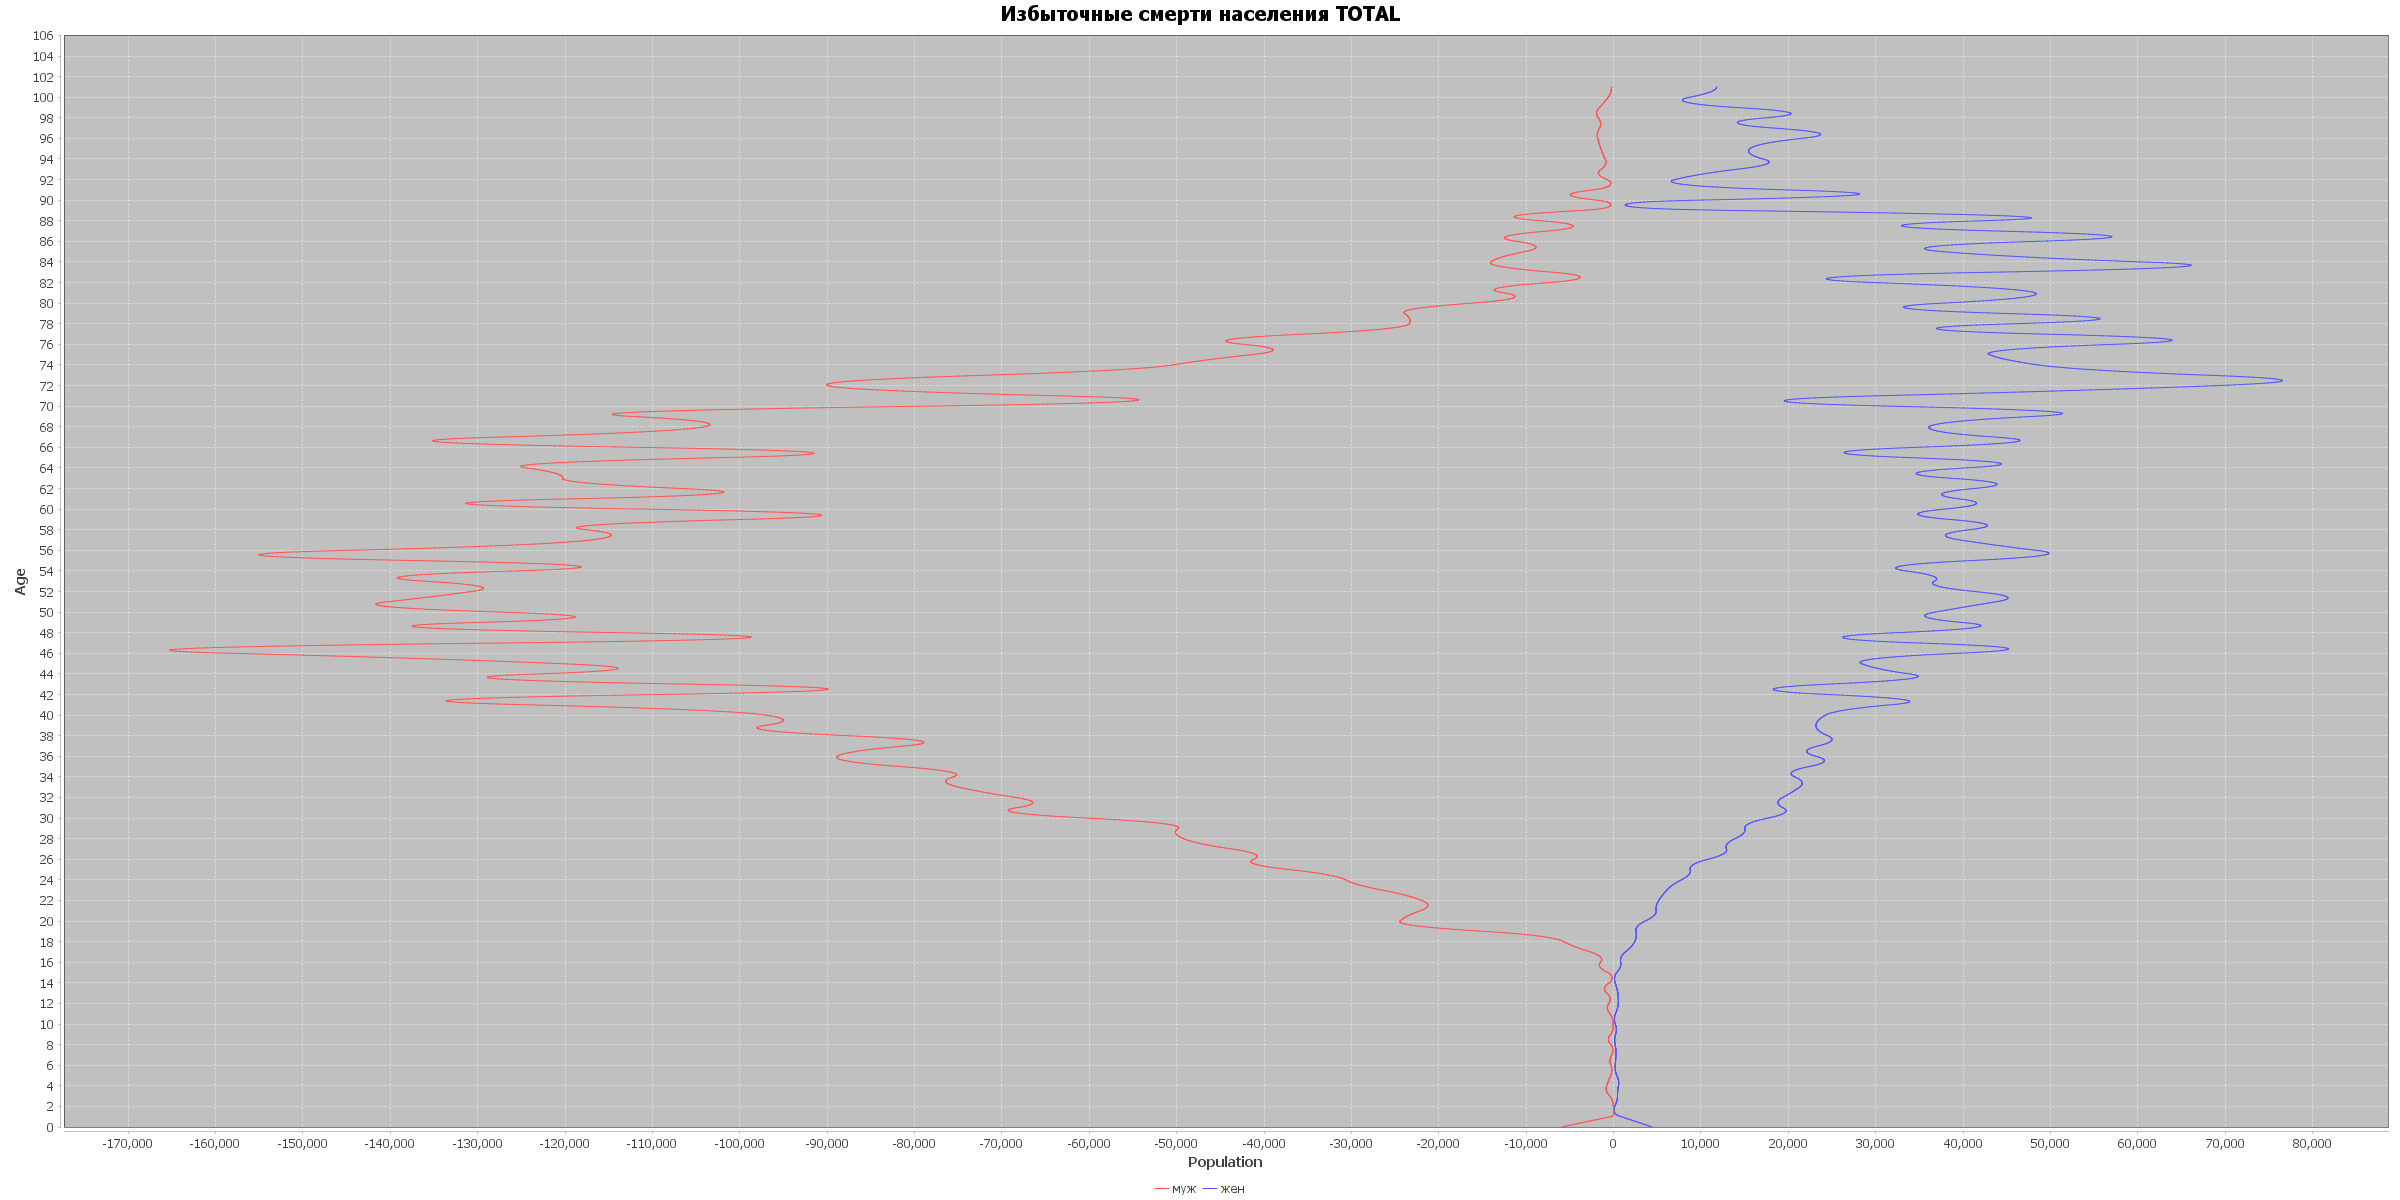
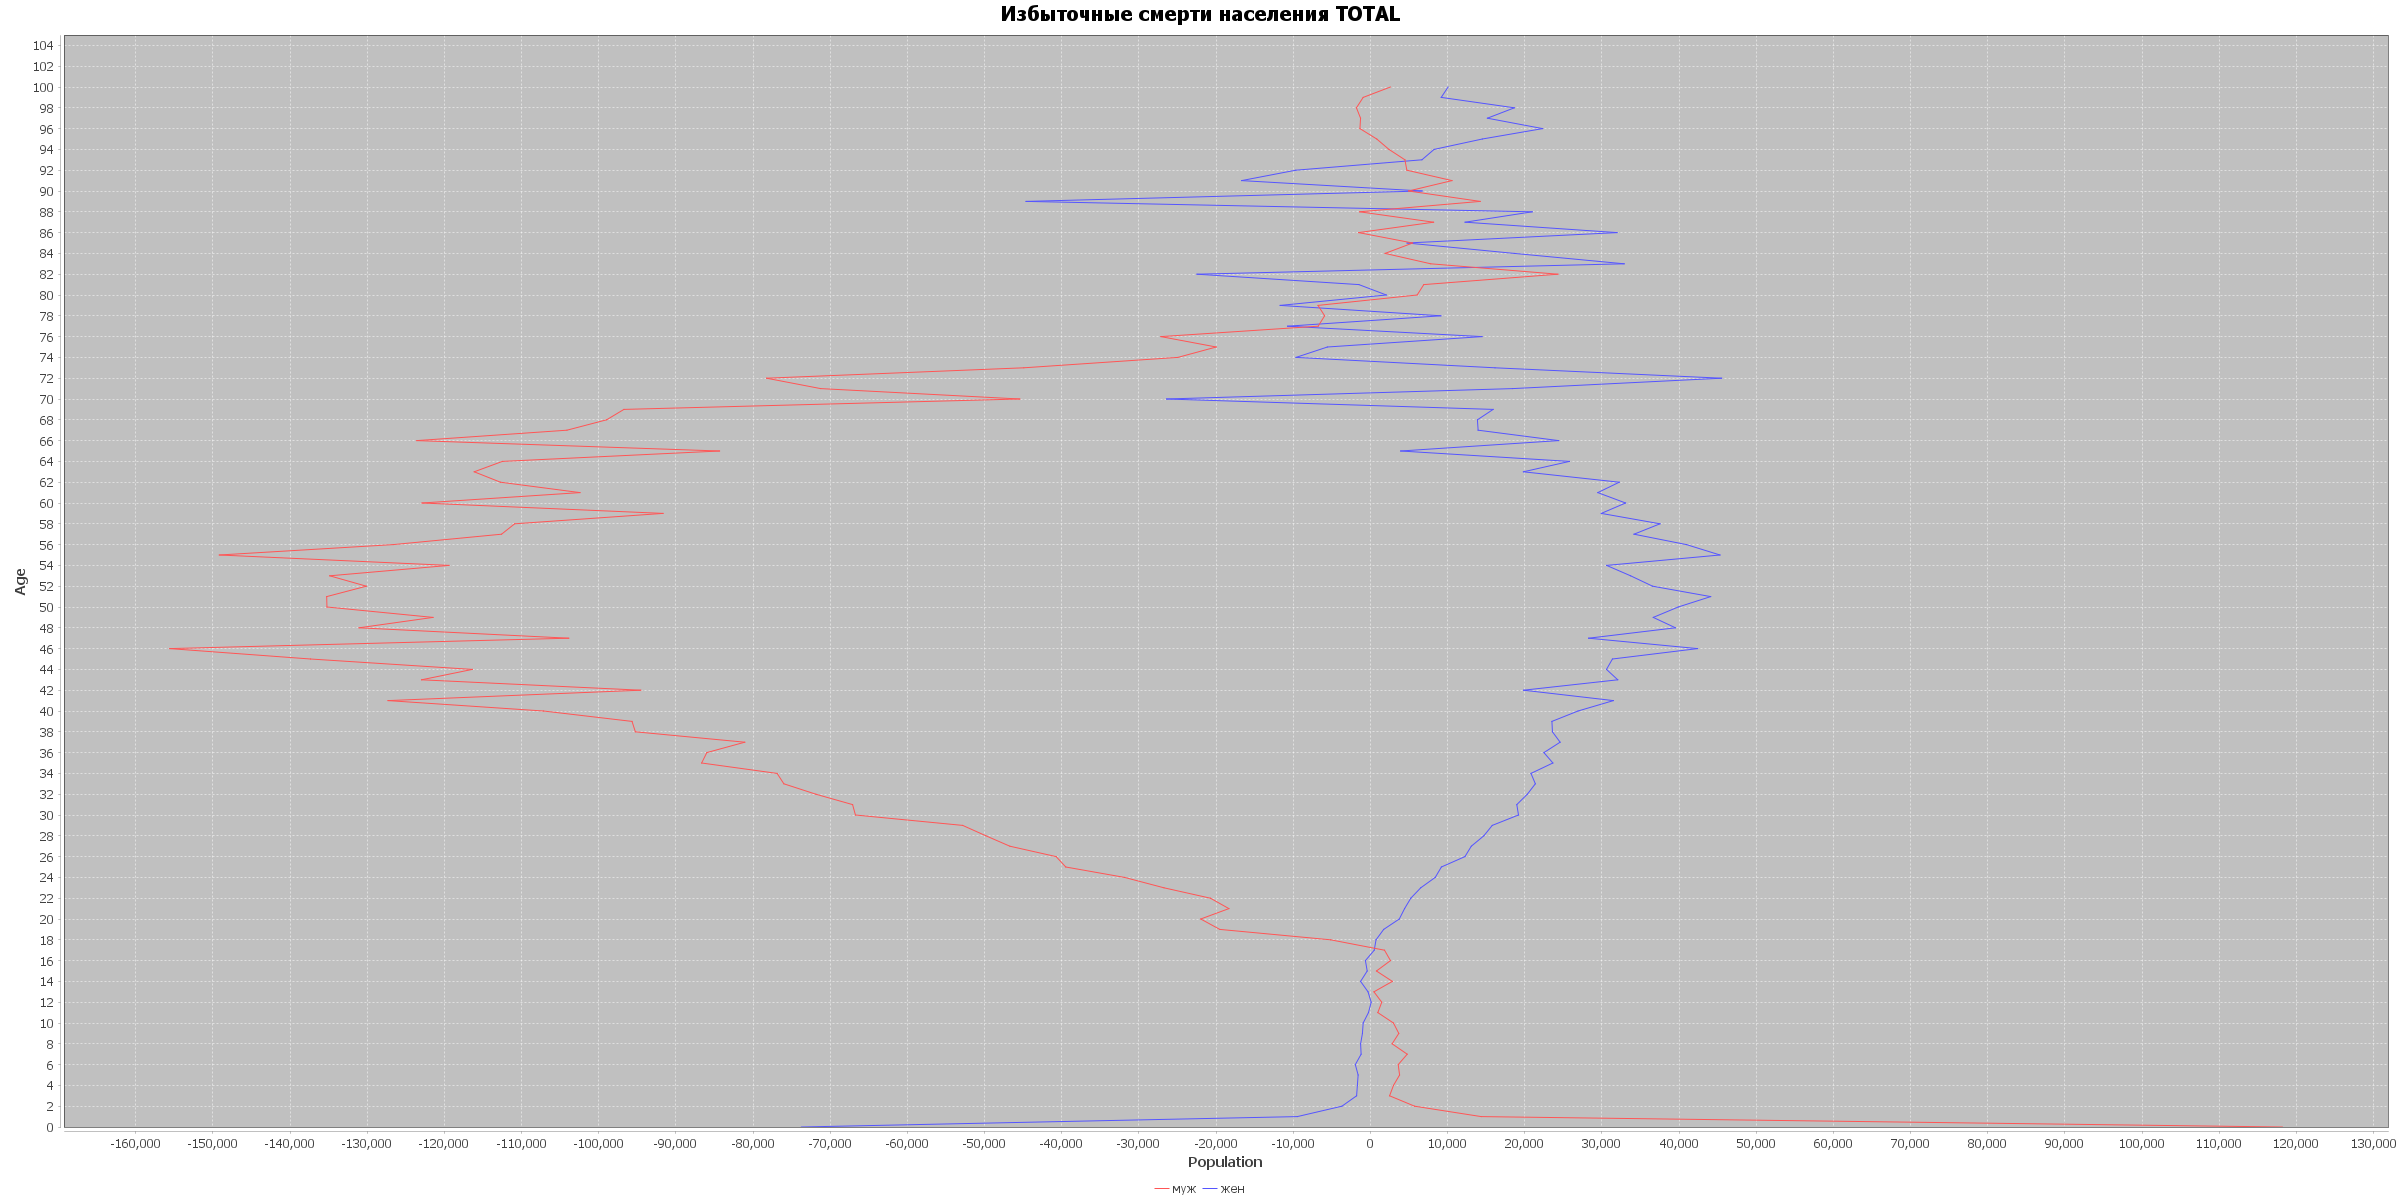
misc

diff --git a/rtss-losses-199x/docs/losses-199x.html b/rtss-losses-199x/docs/losses-199x.html
@@ -285,6 +285,8 @@ href="https://www.nes.ru/research-main/research-centers/demogr/demogr-fermort-da
 
 
 
+
+
     однако охватывают только Республику Крым и не включают Севастополь.
     Прямых сведений о Севастополе в публикациях Росстата нам обнаружить
     не удалось. <br>
@@ -354,10 +356,14 @@ href="https://www.nes.ru/research-main/research-centers/demogr/demogr-fermort-da
 
 
 
+
+
     смертей сравнительно с тем, которое состоялось бы при неизменной
     плодовитости и тех же уровнях смертности.<br>
     <br>
     Наш расчёт игнорирует это завышение и занижение и исчисляет <i>фактически
+
+
 
 
 
@@ -402,6 +408,8 @@ href="https://www.nes.ru/research-main/research-centers/demogr/demogr-fermort-da
           <td bgcolor="#ffffff" align="center"><b><br>
             </b></td>
           <td colspan="3" rowspan="1" bgcolor="#ccccff" align="center"><b>муж.
+
+
 
 
 
@@ -941,6 +949,8 @@ href="https://www.nes.ru/research-main/research-centers/demogr/demogr-fermort-da
 
 
 
+
+
               + жен.</b></td>
         </tr>
         <tr style="height:15.0pt" height="20">
@@ -1475,6 +1485,8 @@ href="https://www.nes.ru/research-main/research-centers/demogr/demogr-fermort-da
 
 
 
+
+
               + жен.</b></td>
         </tr>
         <tr style="height:15.0pt" height="20">
@@ -2000,7 +2012,12 @@ href="https://www.nes.ru/research-main/research-centers/demogr/demogr-fermort-da
     </blockquote>
     <br>
     Приводимые ниже графики изображают распределение избыточных смертей
-    по полу и по возрасту на момент смерти.<br>
+    в 1989-2015 гг. по полу и по возрасту на момент смерти.<br>
+    Отрицательные для данного пола значения (лежащие по противоположнуб
+    сторону нулевой оси) отражают улучшение положения со смертностью для
+    данной половозрастной группы: так, положение с младенческой и
+    детской смертностью для суммы периода 1989-2015 гг. улучшилось
+    сранительно с 1989 г.<br>
     <i><br>
     </i>
     <div align="center"><i> Структура избыточных смертей городского и
@@ -2026,16 +2043,17 @@ href="https://www.nes.ru/research-main/research-centers/demogr/demogr-fermort-da
     <a href="excess-deaths/rural.png"><img
         src="excess-deaths/rural_tn.png" alt="" width="1200"
         height="600" border="0"></a><br>
-    Как видно, избыточные смерnи в совокупном населении пришлись
+    Как видно, избыточные смерти в совокупном населении пришлись
     преобладающим образом на мужчин, а среди них – на возрастную группу
     30-70 лет, однако число избыточных смертей в группах мужчин в
     возрастах 20-30 и 70+ тоже высоко.<br>
     <br>
     Средний возраст избыточной смерти мужчин в совокупном населении –
-    51.4 года, а женщин – 63.0 года. Для городского населения эти
-    величины составляют 49.8 (муж) и 59.8 (жен). Однако средний возраст
-    избыточной смерти в данном случае не должен прикрывать огромное
-    число избыточных смертей мужчин молодого возраста.<br>
+    51.1 года, а женщин – 56.9.лет. Для городского населения эти
+    величины составляют 48.5 (муж) и 32.2 (жен); для сельского – 57.0
+    (муж) и 69.2 (жен). Однако средний возраст избыточной смерти в
+    данном случае не должен прикрывать огромное число избыточных смертей
+    мужчин молодого возраста.<br>
     <br>
     <hr width="100%" size="2"><br>
     <br>
@@ -2073,6 +2091,7 @@ href="https://www.nes.ru/research-main/research-centers/demogr/demogr-fermort-da
     <br>
     ### миграция<br>
     ### избыточно умершие не родили<br>
+    ### сравнение с вишневским<br>
     <br>
     <hr width="100%" size="2"><br>
     Расчётный модуль: <tt>rtss.losses199x.Losses199X</tt>.<br>

diff --git a/rtss-losses-199x/src/main/java/rtss/losses199x/ExcessDeaths.java b/rtss-losses-199x/src/main/java/rtss/losses199x/ExcessDeaths.java
@@ -4,6 +4,7 @@ import java.io.File;
 import java.util.HashMap;
 import java.util.Map;
 
+import rtss.data.ValueConstraint;
 // import rtss.data.mortality.CombinedMortalityTable;
 import rtss.data.population.struct.Population;
 import rtss.data.population.struct.PopulationByLocality;
@@ -83,16 +84,13 @@ public class ExcessDeaths
             PopulationByLocality d_at_reference_rates = year2deaths_at_reference_rates.get(year);
             PopulationByLocality excess = d_at_actual_rates.sub(d_at_reference_rates);
 
-            neg2zero(excess); // ####
-
             if (total_excess == null)
             {
                 total_excess = excess;
             }
             else
             {
-                total_excess = total_excess.add(excess);
-                neg2zero(total_excess); // ####
+                total_excess = total_excess.add(excess, ValueConstraint.NONE);
             }
         }
 
@@ -100,6 +98,27 @@ public class ExcessDeaths
         total_excess.recalcTotalLocalityFromUrbanRural();
         total_excess.validate();
 
+        for (Locality locality : Locality.TotalUrbanRural)
+        {
+            Population p = total_excess.forLocality(locality);
+            
+            Util.out(String.format("Средний возраст избыточной смерти населения %s %s = %.1f", 
+                                   locality.name(), Gender.MALE.name(),
+                                   averageAge(p, Gender.MALE)));
+
+            Util.out(String.format("Средний возраст избыточной смерти населения %s %s = %.1f", 
+                                   locality.name(), Gender.FEMALE.name(),
+                                   averageAge(p, Gender.FEMALE)));
+
+            Util.out(String.format("Средний возраст избыточной смерти населения %s %s = %.1f", 
+                                   locality.name(), Gender.BOTH.name(),
+                                   averageAge(p, Gender.BOTH)));
+            
+            Util.out("");
+        }
+        
+        Util.noop();
+        
         // total_excess.forLocality(Locality.TOTAL).toPopulationContext().display("TOTAL");
 
         for (Locality locality : Locality.TotalUrbanRural)
@@ -120,7 +139,7 @@ public class ExcessDeaths
                 p = total_excess.forLocality(locality);
                 p = p.clone().setLocality(Locality.TOTAL);
                 new PopulationChart(title)
-                        .show("", p.toPopulationContext())
+                        .show("", p)
                         .exportImage(IMAGE_CX, IMAGE_CY, imageExportDirectory + File.separator + locality + ".png")
                         .exportImage(TN_CX, TN_CY, imageExportDirectory + File.separator + locality + "_tn.png");
                 break;
@@ -138,23 +157,6 @@ public class ExcessDeaths
                         .exportImage(TN_CX, TN_CY, imageExportDirectory + File.separator + locality + "_tn.png");
                 break;
             }
-
-            p = total_excess.forLocality(locality).clone();
-            neg2zero(p); // ####
-
-            Util.out(String.format("Средний возраст избыточной смерти населения %s %s = %.1f", 
-                                   locality.name(), Gender.MALE.name(),
-                                   averageAge(p, Gender.MALE)));
-
-            Util.out(String.format("Средний возраст избыточной смерти населения %s %s = %.1f", 
-                                   locality.name(), Gender.FEMALE.name(),
-                                   averageAge(p, Gender.FEMALE)));
-
-            Util.out(String.format("Средний возраст избыточной смерти населения %s %s = %.1f", 
-                                   locality.name(), Gender.BOTH.name(),
-                                   averageAge(p, Gender.BOTH)));
-            
-            Util.out("");
         }
 
         Util.noop();
@@ -287,6 +289,7 @@ public class ExcessDeaths
         return String.format("%,d", Math.round(v));
     }
 
+    @SuppressWarnings("unused")
     private void neg2zero(PopulationByLocality p) throws Exception
     {
         neg2zero(p.forLocality(Locality.URBAN));

diff --git a/population-projection/src/main/java/rtss/data/population/struct/PopulationByLocality.java b/population-projection/src/main/java/rtss/data/population/struct/PopulationByLocality.java
@@ -572,7 +572,13 @@ public class PopulationByLocality
 
     static private Population calcTotal(Population rural, Population urban) throws Exception
     {
-        Population total = Population.newPopulation(Locality.TOTAL);
+        ValueConstraint vc_rural = rural.valueConstraint();
+        ValueConstraint vc_urban = urban.valueConstraint();
+        
+        if (vc_rural != vc_urban)
+            throw new Exception("Mismatching value constraints for rural and urban");
+        
+        Population total = Population.newPopulation(Locality.TOTAL, vc_rural);
 
         for (int age = 0; age <= MAX_AGE; age++)
         {

diff --git a/population-projection/src/main/java/rtss/data/population/struct/Population.java b/population-projection/src/main/java/rtss/data/population/struct/Population.java
@@ -65,6 +65,19 @@ public class Population
         return p;
     }
 
+    static public Population newPopulation(Locality locality, ValueConstraint vc)
+    {
+        Population p = newPopulation(locality);
+        
+        if (vc == null)
+            vc = ValueConstraint.NON_NEGATIVE;
+        p.male.setValueConstraint(vc);
+        p.female.setValueConstraint(vc);
+        p.both.setValueConstraint(vc);
+        
+        return p;
+    }
+
     private Population()
     {
     }
